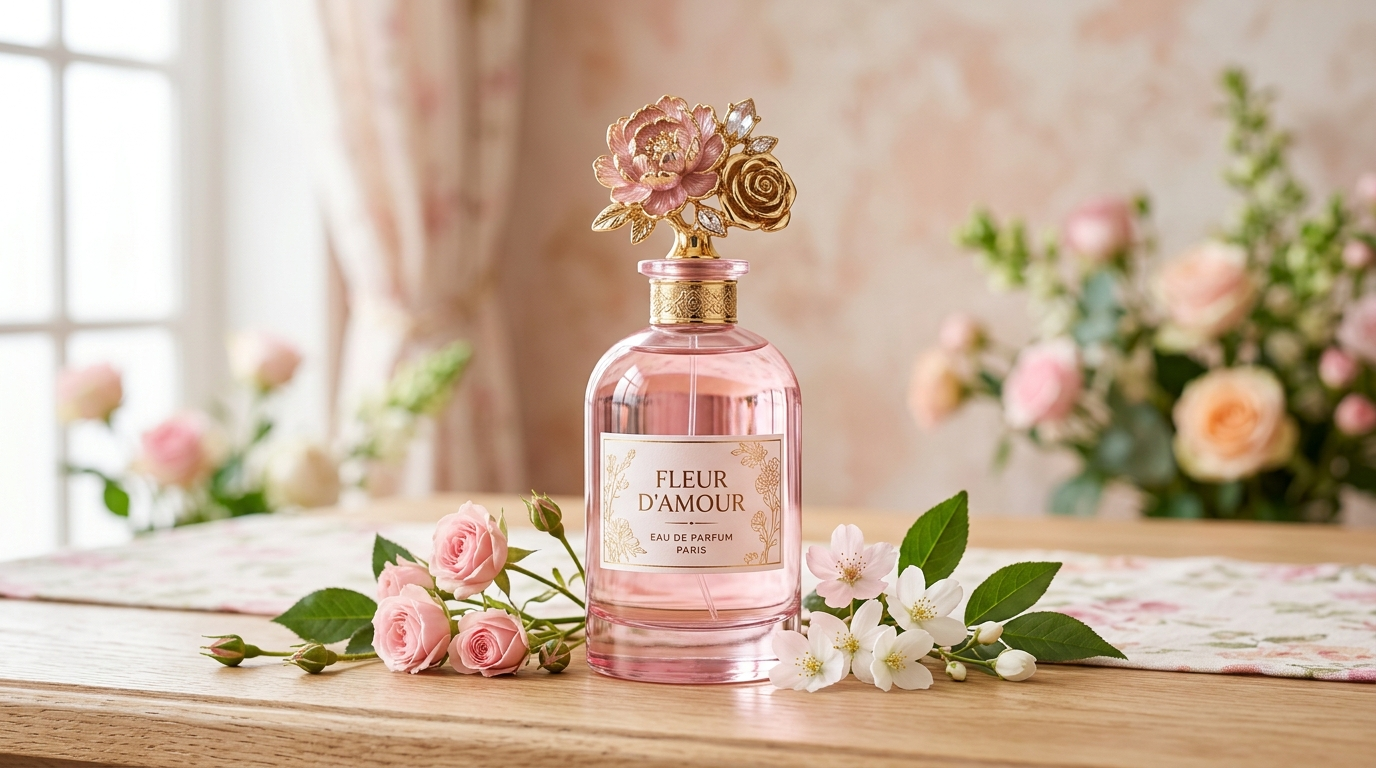
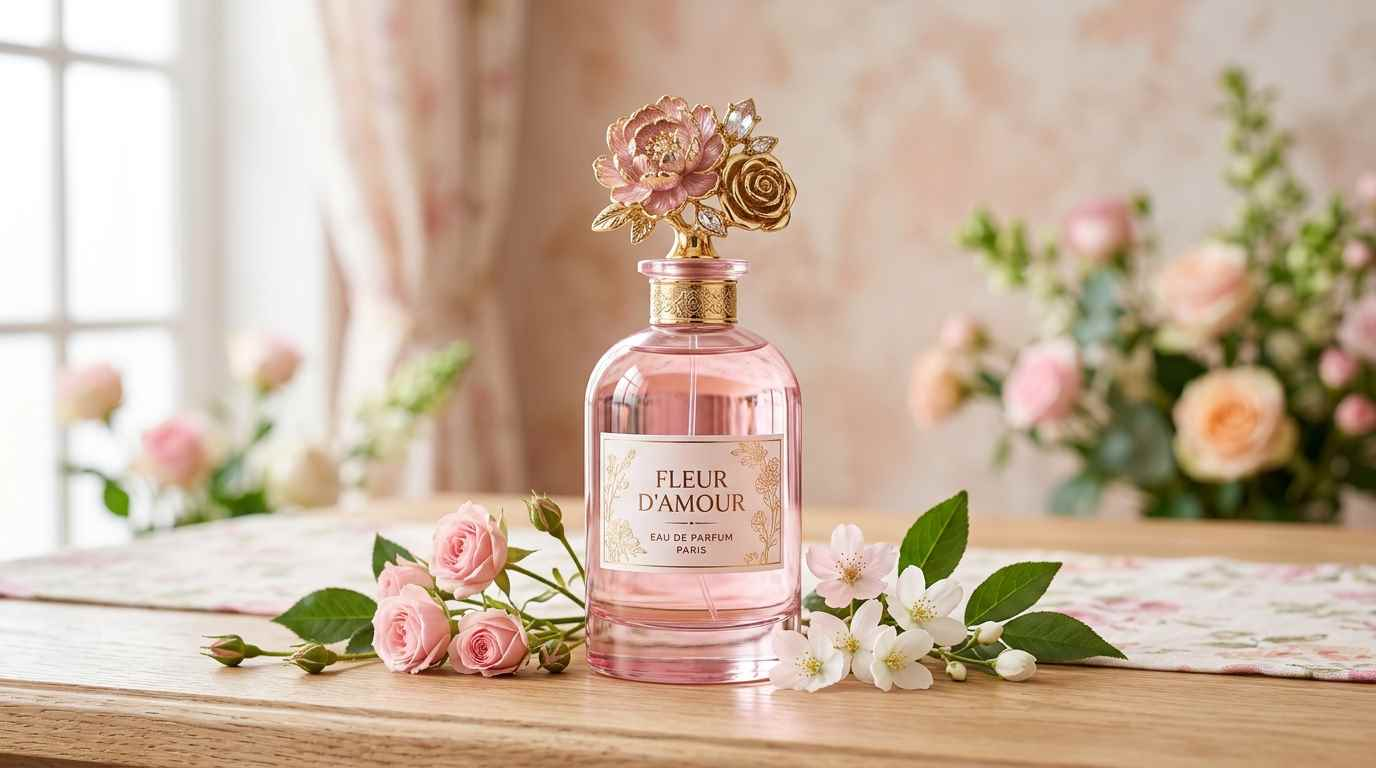
fix: update domains, improve description, and compress og-image for whatsapp compatibility

diff --git a/web/index.html b/web/index.html
@@ -23,17 +23,17 @@
   
   <!-- Open Graph / Facebook -->
   <meta property="og:type" content="website">
-  <meta property="og:url" content="https://perfuma.vercel.app/">
-  <meta property="og:title" content="Perfuma ✨ | Premium Luxury Fragrances">
-  <meta property="og:description" content="Discover the essence of elegance. Shop our exclusive collection of handcrafted perfumes and luxury gift sets.">
-  <meta property="og:image" content="https://perfuma.vercel.app/og-image.jpg">
+  <meta property="og:url" content="https://perfuma-two.vercel.app/">
+  <meta property="og:title" content="Perfuma ✨ | The Ultimate Luxury Fragrance Experience">
+  <meta property="og:description" content="Indulge in our exclusive, handcrafted signature perfumes and luxury gift sets. Long-lasting, premium scents designed in Paris, shipped to your doorstep.">
+  <meta property="og:image" content="https://perfuma-two.vercel.app/og-image.jpg">
 
   <!-- Twitter -->
   <meta property="twitter:card" content="summary_large_image">
-  <meta property="twitter:url" content="https://perfuma.vercel.app/">
-  <meta property="twitter:title" content="Perfuma ✨ | Premium Luxury Fragrances">
-  <meta property="twitter:description" content="Discover the essence of elegance. Shop our exclusive collection of handcrafted perfumes and luxury gift sets.">
-  <meta property="twitter:image" content="https://perfuma.vercel.app/og-image.jpg">
+  <meta property="twitter:url" content="https://perfuma-two.vercel.app/">
+  <meta property="twitter:title" content="Perfuma ✨ | The Ultimate Luxury Fragrance Experience">
+  <meta property="twitter:description" content="Indulge in our exclusive, handcrafted signature perfumes and luxury gift sets. Long-lasting, premium scents designed in Paris, shipped to your doorstep.">
+  <meta property="twitter:image" content="https://perfuma-two.vercel.app/og-image.jpg">
 
   <!-- iOS meta tags & icons -->
   <meta name="mobile-web-app-capable" content="yes">
@@ -51,5 +51,6 @@
   <script src="flutter_bootstrap.js" async></script>
 </body>
 </html>
+
 
 
